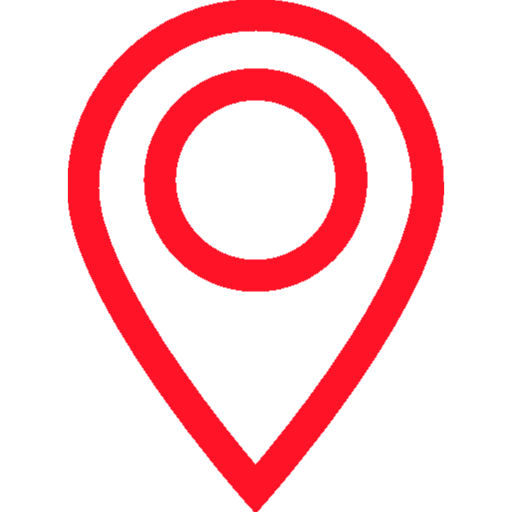
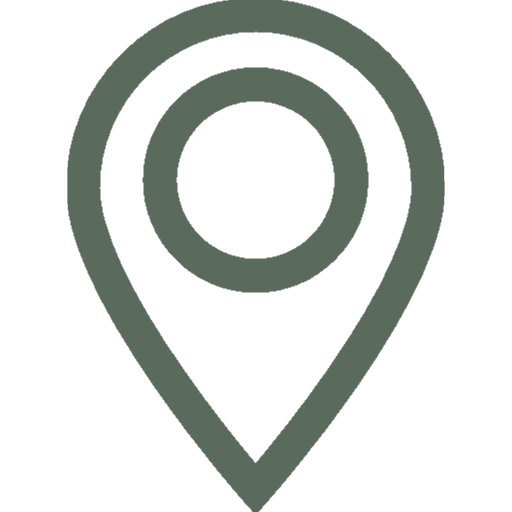
Змінив футер
Змінив футер згідно з ребрендінгом та згорнув його

Changed region(s): [[0.125, 0.0, 0.875, 1.0], [0.2812, 0.125, 0.7188, 0.5938]]

diff --git a/css/style.css b/css/style.css
@@ -266,14 +266,14 @@ a .disabled {
     flex-direction: column;
     justify-content: center;
     align-items: center;
-    height: 100vh;
+    height: 60vh;
     max-height: 1080px;
-    background-color: #A7BCCF;
+    background-color: #BDBD9E;
     /* opacity: .8; */
 }
 
 .footer__inner {
-    height: 100vh;
+    height: 60vh;
     display: flex;
     flex-direction: column;
     justify-content: space-between;
@@ -302,7 +302,7 @@ a .disabled {
 }
 
 .footer__title {
-    color: rgb(241, 241, 241);
+    color: #5A6A5D;
     font-weight: 500;
     font-size: 30px;
 }
@@ -329,7 +329,7 @@ a .disabled {
     text-decoration: none;
     font-weight: 500;
     font-size: 20px;
-    background-color: rgba(255, 12, 34, 1);
+    background-color: #5A6A5D;
     color: white;
     padding: 10px 40px;
     cursor: pointer;
